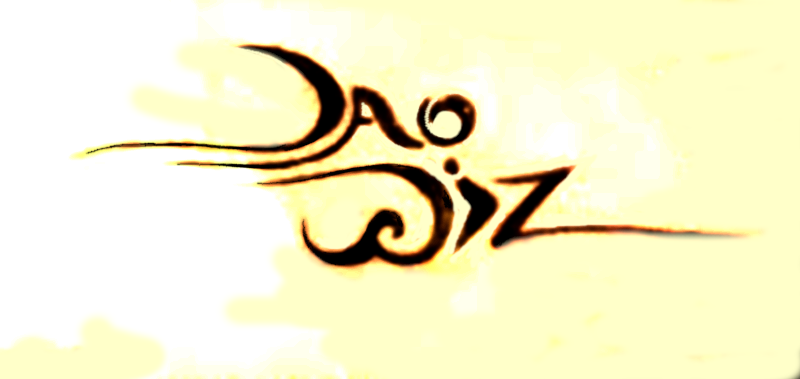
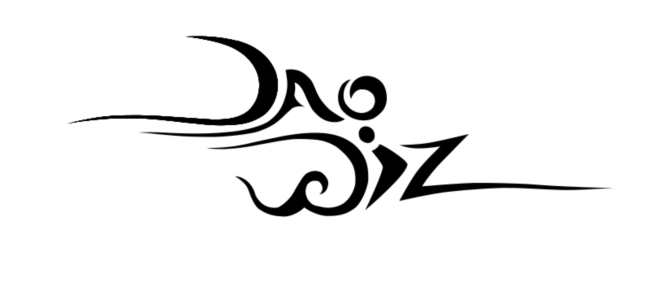
front-page-done

diff --git a/_includes/home.html b/_includes/home.html
@@ -1,23 +1,30 @@
 
 <div class="landingpage">
-<div class="logo">
+
       <!--<img style="text-align:center; display: block; margin-left: auto; margin-right: auto;" src="" alt="DAOWIZ foundation" width="209" height="209">-->
       <!--<a>~ Living Inspiration ~</a>
       <br>
       <a>are you ready for the future?</a>-->
-</div>
+
 <div class="play">
 
 <div class="playbutt" >
-<a href="https://ivandouwes.bandcamp.com/"><img src="../assets/img/1432343177.svg" width="60vw" height="60vh"></a>
-  </div>
+  <a href="https://ivandouwes.bandcamp.com/"><img src="../assets/img/1432343177.png" width="60vw" height="60vh"></a>
 </div>
+
+</div>
+
 <br>
+
 <div class="social">
- <a href="https://www.facebook.com/daowizmusic/"><img src="../assets/img/facebook.png"  alt="Facebook" height="50vh" width="50vw"></a><a href="https://www.instagram.com/daowiz.music/"><img src="../assets/img/instagram.png"  alt="Instagram" height="50vh" width="50vw"></a>
+   <a href="https://www.facebook.com/daowizmusic/"><img src="../assets/img/facebook.png"  alt="Facebook" height="50vh" width="50vw"></a><a href="https://www.instagram.com/daowiz.music/"><img src="../assets/img/instagram.png"  alt="Instagram" height="50vh" width="50vw"></a>
 <br>
-<img src="../assets/img/daowiz_temp.png"  alt="" height="auto" width="300vw">
-  </div>
+</div>
+
+<div class="logo">
+<a> <img src="../assets/img/daowiz_temp.png" alt="ff" height="auto" width="100%" ></a>
+</div>
+
 <!--
 <hr>
 <p>

diff --git a/css/main.css b/css/main.css
@@ -1,6 +1,6 @@
 body {
   border-top: 15px solid #01579b;
-  height:200%;
+
 }
 
 .play{
@@ -9,23 +9,26 @@ body {
   text-align:center;
   position:fixed;
   color:#FFF;
-  bottom:20%;
+  bottom:15vh;
+  
 }
 .playbutt{
   display:inline-block;
-  width:15vw;
-  height:15vw;
+  width:13vw;
+  height:13vw;
   text-align: center;
-  bottom:20%;
+  bottom:15vh;
+
 }
-.social{
+.social {
   width:auto;
   height:auto;
   text-align: center;
+  margin-top: 10vh;
 }
 
 .landingpage{
-  background: #fff;
+  background: #000;
 
     background-image: url("../assets/img/launch.jpeg");
     background-size: 100%;
@@ -37,7 +40,14 @@ body {
   display: flex;
   flex-direction: column;
 }
+.logo{
+  text-align: center;
+  display: flex;
+  flex-direction: column;
+  min-height: 95vh;
 
+
+}
 .page {
   margin: 0 10px 0 10px;
   height: 150%

diff --git a/_includes/actionbuttons.html b/_includes/actionbuttons.html
@@ -9,7 +9,7 @@
        <!-- END MY SCRIPTS -->
 <!-- FIXED ACTION BUTTON -->
 <div class="fixed-action-btn">
-  <a href="#" class="btn-floating  orange accent-2 btn-large"><i class="material-icons">menu</i></a>
+  <a href="#" class="btn-floating  green accent-4 btn-large"><i class="material-icons">menu</i></a>
   <ul>
     <li><a href="../" class="btn-floating green lighten-1  btn-large"><i class="large material-icons">home</i></a></li>
     <li><a href="../about" class="btn-floating green lighten-1  btn-large"><i class="large material-icons">help</i></a></li>

diff --git a/_includes/head.html b/_includes/head.html
@@ -9,5 +9,5 @@
 
       <!--Let browser know website is optimized for mobile-->
       <meta name="viewport" content="width=device-width, initial-scale=1.0"/>
-      <title>Daowiz.Music</title>
+      <title>Dao Wiz.Music</title>
 </head>

diff --git a/_includes/footer.html b/_includes/footer.html
@@ -1,7 +1,7 @@
 <footer class="page-footer">
        <div class="footer-copyright">
 
-         <strong>©2019 Copyright . Daowiz.Music</strong>
+         <strong>©2019 Copyright - Dao Wiz.Music</strong>
 
        </div>
 </footer>

diff --git a/_layouts/default_apps.html b/_layouts/default_apps.html
@@ -5,7 +5,7 @@
 
 <body>
 
-        
+
 
         {{ content }}
 
